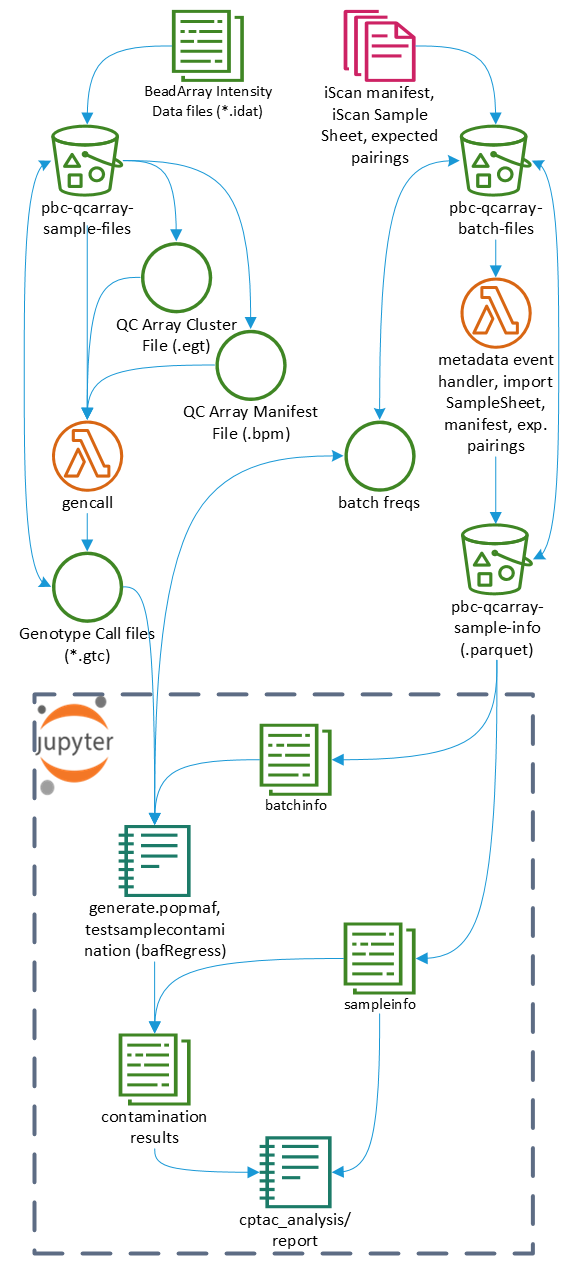
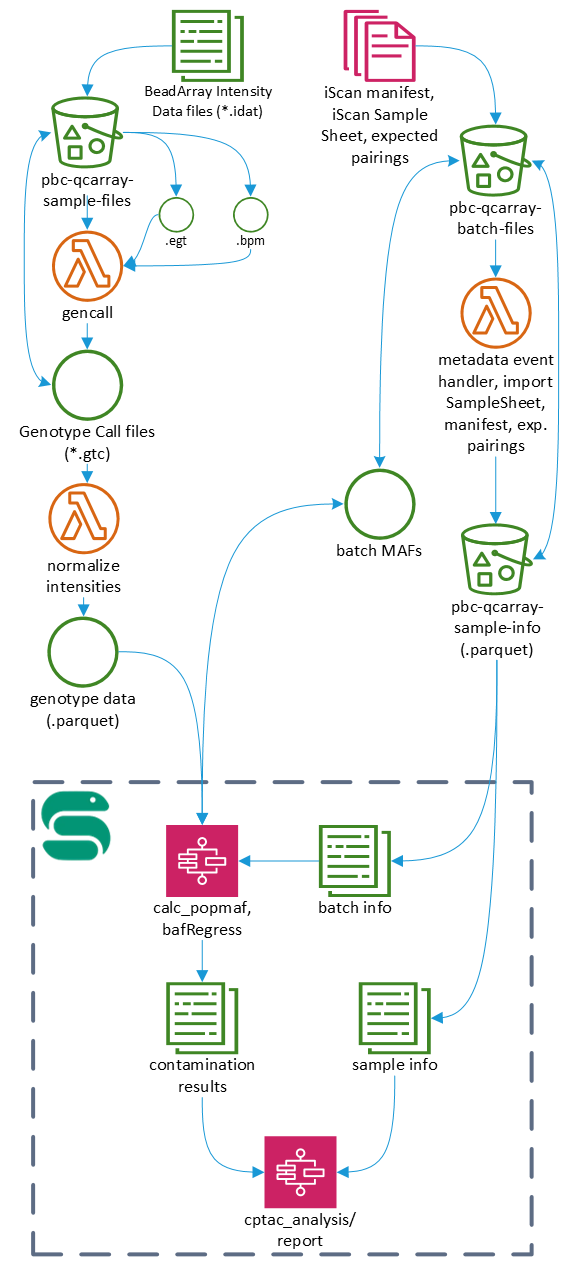
update README, workflow diagram

diff --git a/README.md b/README.md
@@ -1,16 +1,28 @@
 # pbc-iscan-qcarray
 The Pathology and Biorepository Core at the Van Andel Research Institute uses the Illumina Infinium QC Array BeadChip on the Illumina iScan to check biospecimens for contamination and mislabling. 
-This workflow has three main parts:
-1. gencall - Generate Genotype Call files (.gtc) from BeadArray Intensity Data files (.idat)
-2. metadata - Merge run/batch metadata from CSV/Excel into Apache Parquet column-oriented data files partioned by batch
-3. QC - Determine sample contamination and mislabling, which consists of:
-- popmaf - Calculate population frequencies for: (1) run/batch, (2) range of runs/batches, or (3) entire study/cohort
-- [bafRegress](https://genome.sph.umich.edu/wiki/BAFRegress) - Contamination testing
-- analysis - Perform the remaining QC analysis steps to determine sample mislabling
 
-This first two parts of the workflow are implemented as AWS Serverless, event-driven processes. The last part of the workflow (QC) is implemented as a Jupyter notebook in R. See the [README](analysis/README.md) for that part.
+This workflow is implemented in two parts, (1) automated, event-driven data wrangling, and (2) manually run QC analysis.
 
+## Event-driven pre-processing
+This first part of the workflow handles the input data wrangling. It's implemented as an AWS Serverless, event-driven processes. The general steps are:
+- gencall - Generate Genotype Call files (.gtc) from BeadArray Intensity Data files (.idat).
+- normalization - Calculate normalized intensities, since `gencall` doesn't do this automatically, and store the results in Apache Parquet column-oriented data files.
+- metadata - Merge run/batch metadata from CSV/Excel into Apache Parquet column-oriented data files partioned by run/batch.
+- popmaf - Calculate population frequencies for the current run/batch, for later aggregation over the entire study/cohort.
+
+### Prerequisites
+The infrastructure code is currently a [SAM app](https://docs.aws.amazon.com/serverless-application-model/latest/developerguide/what-is-sam.html). You'll need to install the [AWS SAM CLI](https://docs.aws.amazon.com/serverless-application-model/latest/developerguide/serverless-sam-cli-install.html) if you want to make changes and/or deploy it.
+
+## Manual QC analysis
+The second part of the workflow implements the actual QC/analysis that attempts to determine whether sample contamination or mislabling has occurred. It's implemented as a Snakemake workflow.
+
+### bafRegress — Contamination testing
+The [bafRegress](https://genome.sph.umich.edu/wiki/BAFRegress) code has been pared down to only the part that does the linear regression. The parts for Python/R marshalling are no longer needed.
+
+Also, the population minor allele frequencies (popmaf) are calculated from the genotype call data directly, rather than generating .ped files and using plink.
+
+### argyle
+Code was added to initialize the `genotypes` obect from the genotype call data directly instead of generating and using a GenomeStudio final report text file.
+
+## Workflow overview
  ![](workflow.png)
-
-## Prerequisites
-The infrastructure code is currently a [SAM app](https://docs.aws.amazon.com/serverless-application-model/latest/developerguide/what-is-sam.html). You'll need to install the [AWS SAM CLI](https://docs.aws.amazon.com/serverless-application-model/latest/developerguide/serverless-sam-cli-install.html).
